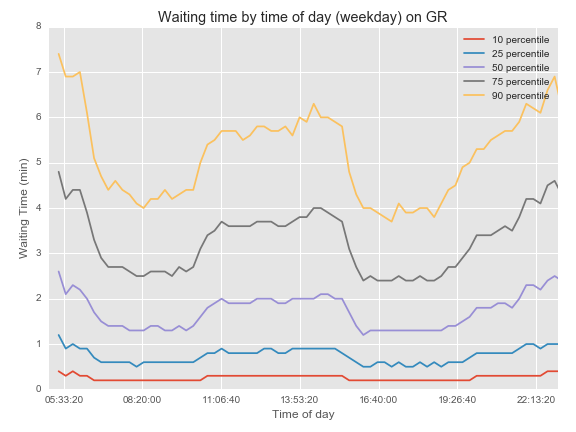
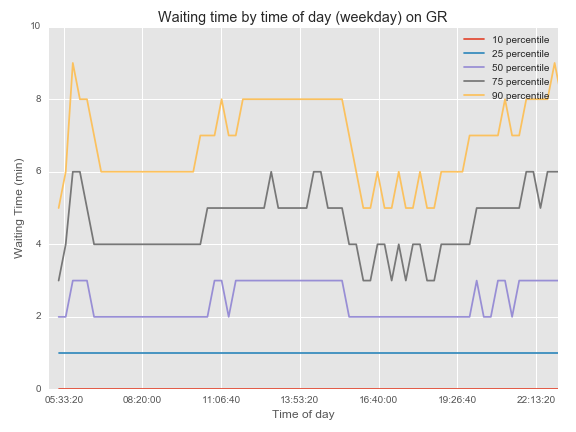
Fixing error in wait times

diff --git a/make_entry_md.py b/make_entry_md.py
@@ -1,4 +1,5 @@
 import sys
+import os
 from datetime import datetime
 
 # modified from http://nafiulis.me/making-a-static-blog-with-pelican.html
@@ -28,6 +29,11 @@ def make_entry(title):
                                 hour=today.hour,
                                 minute=today.minute,
                                 slug=slug)
+    path = os.path.dirname(f_create)
+    if os.path.exists(path):
+        print("path already exists")
+        raise FileExistsError
+    os.makedirs(path)
     with open(f_create, 'w') as w:
         w.write(t)
     print("File created -> " + f_create)

diff --git a/pelicanconf.py b/pelicanconf.py
@@ -79,13 +79,14 @@ MENUITEMS = (
 )
 
 INDEX = 'index.html'
-ARTICLE_URL = 'blog/{date:%Y}/{date:%b}/{date:%d}/{slug}/'
+#ARTICLE_URL = 'blog/{date:%Y}/{date:%b}/{date:%d}/{slug}/'
+ARTICLE_URL = 'blog/{slug}/'
 ARTICLE_SAVE_AS = ARTICLE_URL + INDEX
 PAGE_URL = '{slug}/'
 PAGE_SAVE_AS = PAGE_URL + INDEX
 TAG_URL = 'blog/tag/{slug}/'
 TAG_SAVE_AS = TAG_URL + INDEX
-CATEGORY_URL = 'blog/{slug}/'
+CATEGORY_URL = 'blog/category/{slug}/'
 CATEGORY_SAVE_AS = CATEGORY_URL + INDEX
 
 INDEX_SAVE_AS = '/blog/index.html'

diff --git a/content/blog/metro-math/post.md b/content/blog/metro-math/post.md
@@ -12,6 +12,11 @@ Authors: Keith Kelly
 [//]: # (https://www.washingtonpost.com/graphics/local/metro-closures/img/WMATAa10506-promo.jpg)
 
 
+(
+*Update 8/28/16 11pm*: the plots and code have been updated after reddit user /u/Grimace06 caught an oversight.
+I had neglected to account for train directionality in computing headways and wait times.
+)
+
 For those unfamiliar, Metro is how the Washington Metropolitan Area Transit Authority ([WMATA](https://beta.wmata.com/)) is commonly referred to.
 It is the transit authority for the Washington, DC region and operates Metrorail, Metrobus, and MetroAccess, the first of which is the topic of this post.
 Back in mid-July [WMATA released a new API](http://www.wmata.com/about_metro/news/PressReleaseDetail.cfm?ReleaseID=6136) giving real-time train position information.
@@ -269,7 +274,6 @@ You might notice some lines appearing or disappearing.
 This could be a problem with my method of generating trip IDs or related to the fact that trains can go into or out of service in the middle of a line.
 
 We can also, like Erik, plot the distribution of headways and the distribution of wait times.
-Here I've looked at trip times between 7am and 7pm.
 
 [//]: # ([![blue line headway distribution]({filename}images/BL_headways.png)]({filename}images/BL_headways.png))
 [//]: # ([![blue line wait times distribution]({filename}images/BL_wait_times.png)]({filename}images/BL_wait_times.png))
@@ -287,7 +291,14 @@ Here I've looked at trip times between 7am and 7pm.
 </div>
 </div>
 
+Here I've looked at trip times between 7am and 7pm.
+And keep in mind that in some cases there may be several lines that work for you.
+This isn't accounted for here – I've assumed that you're waiting for a train on particular line in a particulr direction.
+This also ignores the fact that not all trains cover the whole line. 
+That would be relatively easy to do though by just sorting the trips by destination station.
 Again, the plots for the other lines are [here](/blog/metro-math/images/) if you're curious.
+
+
 The violin plots work better as a comparison mechanism though.
 
 <div class="container-fluid">
@@ -327,6 +338,7 @@ The x-axes have different ranges because the trains run during different hours d
 </div>
 
 I'm not sure why the wait times increase early in the morning and late at night on the red line during the weekend.
+Maybe someone more familiar with the system can account for this.
 There are, again, more images for the other lines [here.](/blog/metro-math/images/)
 
 Now we can investigate how much longer you'll have to wait given that you've already waited a certain amount of time.
